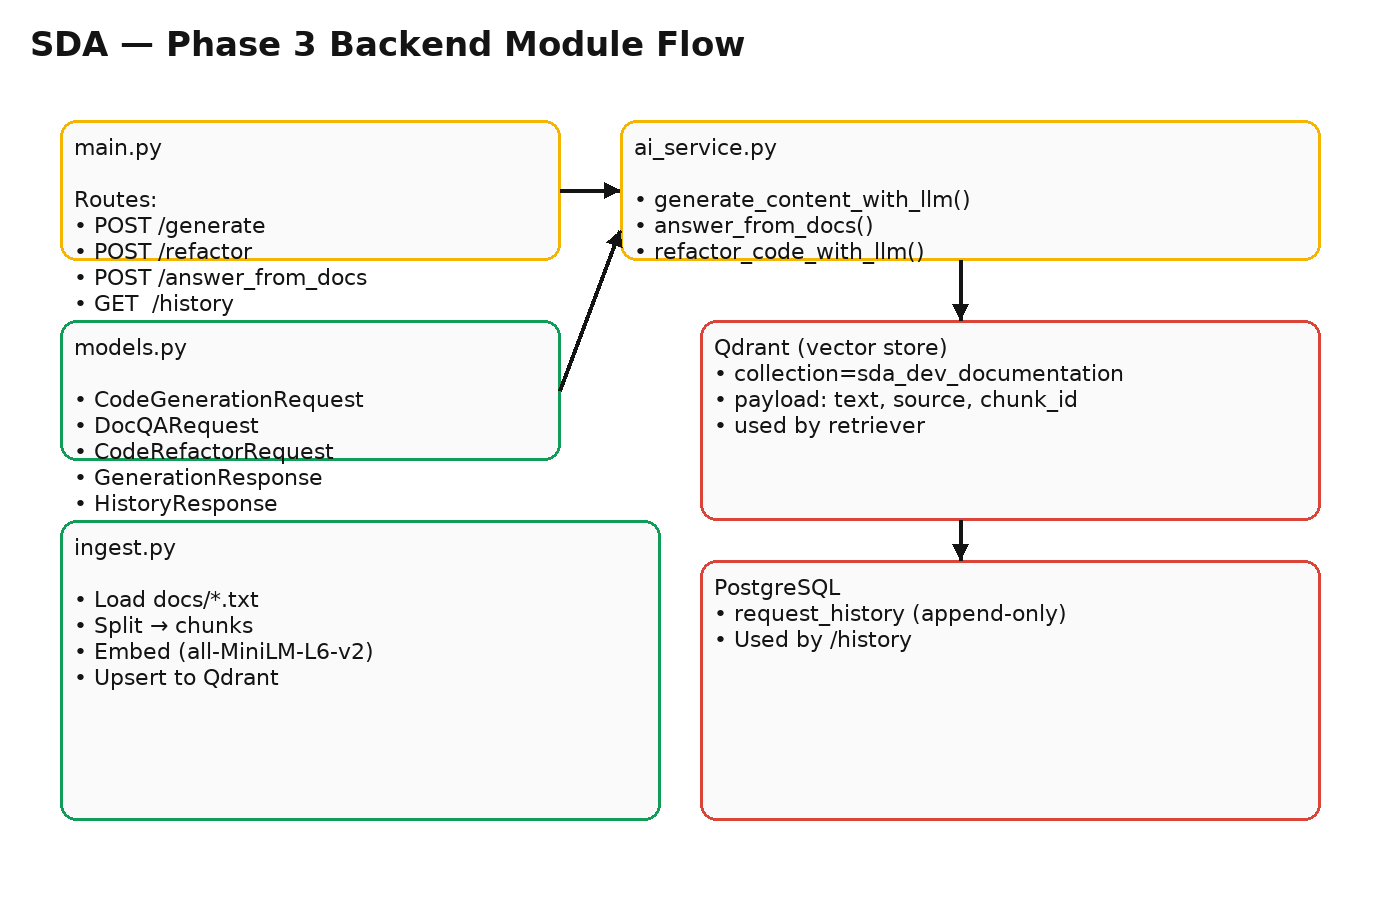
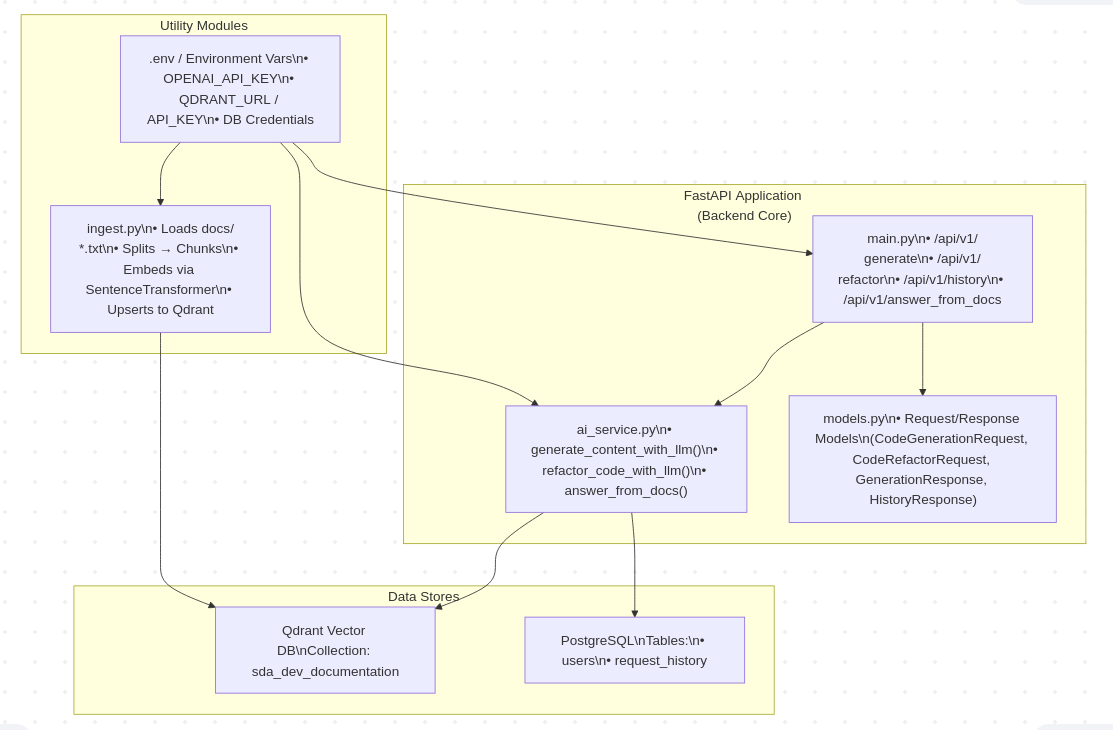
updated diagrams for phase 3

diff --git a/TECHNICAL_DESIGN.md b/TECHNICAL_DESIGN.md
@@ -1,94 +1,105 @@
-# 📘 Technical Design — Smart Developer Assistant (SDA)
+# 📘 Technical Design — Smart Developer Assistant (SDA) — Phase 3
 
-## 1. Introduction
-This document outlines the architecture and implementation of the **Smart Developer Assistant** after completing **Phase 2 (RAG & Docs Q&A Integration)**.  
-The goal is to enable context-aware generation through document retrieval, hybrid ranking, and source traceability.
+Phase 3 introduces two major functional enhancements on top of the Phase 2 RAG architecture:
 
----
-
-## 2. Architectural Overview
-SDA follows a **modular microservice architecture**, separating:
-- FastAPI (backend API)
-- PostgreSQL (structured storage)
-- Qdrant (vector embeddings)
-- React + Redux (frontend)
-
-### 🏗 System Architecture
-![System Architecture](images/Phase2diagram.png)
-
-**Phase 2 Enhancements**
-- Added RAG retrieval flow via Qdrant.  
-- Introduced secure document ingestion (`/upload_docs`).  
-- Added frontend mode toggle (Code ↔ Docs Q&A).
+1. **Code Refactor Feature** – AI-powered code review, optimization, and docstring generation.  
+2. **History Module** – Persistent request logging and retrieval through a MUI DataGrid interface.
 
 ---
 
-## 3. RAG Data Flow
-![RAG Sequence Flow](images/Sequence.png)
+## 1. System Architecture Overview
+![System Architecture](images/Architecture_Phase3.png)
 
-1⃣ Frontend submits prompt → FastAPI (`main.py`)  
-2⃣ Retriever in `ai_service.py` queries Qdrant collection `sda_dev_documentation`  
-3⃣ Context chunks + `SYSTEM_PROMPT` → LLM (OpenAI API)  
-4⃣ LLM generates answer with context  
-5⃣ Sources + scores returned to frontend  
-6⃣ Request/response logged in PostgreSQL
-
----
-
-## 4. Backend Implementation
-![Backend Architecture](images/Backend.png)
-
-### Modules
-| Module | Responsibility |
-|---------|----------------|
-| **main.py** | FastAPI routes, CORS, DB logging, secure upload endpoint |
-| **ai_service.py** | Full LangChain RAG logic + hybrid re-ranking (BM25 + fuzzy) |
-| **models.py** | Pydantic schemas (`DocQARequest`, `GenerationResponse.sources`) |
-| **ingest.py** | CLI + programmatic Qdrant ingestion with embeddings |
-
-**Phase 2 Additions**
-- `answer_from_docs()` endpoint  
-- `upsert_documents()` function for on-demand ingestion  
-- Hybrid retriever with dense + lexical signals  
-- Metadata filters for source/doctype
+**Highlights**
+- React + Redux frontend communicates with FastAPI endpoints:
+  - `/api/v1/generate`
+  - `/api/v1/refactor`
+  - `/api/v1/answer_from_docs`
+  - `/api/v1/history`
+- LangChain orchestrates model reasoning and RAG context retrieval.
+- Qdrant stores document embeddings for semantic search.
+- PostgreSQL holds user and request history data.
 
 ---
 
-## 5. Frontend Design & Interaction
-![Frontend to API Flow](images/Frontend-API.png)
+## 2. Backend Module Flow
+![Backend Flow](images/Backend_Phase3.png)
 
-**Core Components**
-| Component | Purpose |
-|------------|----------|
-| `ModeToggle.tsx` | Switch between Code and Docs Q&A modes |
-| `GenerationArea.tsx` | Main input form for prompt submission |
-| `OutputDisplay.tsx` | Shows AI output and sources |
-| `SourcesList.tsx` | Lists retrieved chunks with scores/snippets |
-| `generationSlice.ts` | Redux state for prompt, mode, filters, and responses |
-
-**Phase 2 Enhancements**
-- Redux thunks for `/generate` and `/answer_from_docs`  
-- Mode-specific parameters (top_k, rerank)  
-- UI updates for real-time source display  
+**Components**
+- **`main.py`** — Defines FastAPI routes and handles request/response lifecycles.  
+- **`ai_service.py`** — Contains:
+  - `generate_content_with_llm()`
+  - `refactor_code_with_llm()`
+  - `answer_from_docs()`  
+- **`models.py`** — Pydantic request/response models.  
+- **`ingest.py`** — Converts docs → chunks → embeddings → Qdrant.  
+- **`.env`** — Holds API keys and database credentials.  
+- **Data Stores**
+  - **Qdrant:** vector collection `sda_dev_documentation`  
+  - **PostgreSQL:** tables `users`, `request_history`
 
 ---
 
-## 6. Database Design
-![Database ER Diagram](images/ER.png)
+## 3. Frontend–API Integration
+![Frontend API Flow](images/Frontend-API_Phase3.png)
 
-| Entity | Description |
-|---------|-------------|
-| `request_history` | Stores all user requests and responses |
-| `users` | (Future) Authentication records |
-| `user_settings` | (Phase 3+) Preferences and model options |
-| `user_snippets` | (Phase 3+) Saved code snippets |
+**Key React Modules**
+- **`generationSlice.ts`** — Manages state (`prompt`, `output`, `mode`, `language`) and thunks  
+  `generateCode()` and `refactorCode()`.
+- **`GenerationArea.tsx`** — Input box + mode toggle (Generate / Refactor).  
+- **`OutputDisplay.tsx`** — Renders output or explanation markdown.  
+- **`HistoryTable.tsx`** — Displays request history; row click → reload prompt/output.
 
-Qdrant collection `"sda_dev_documentation"` stores embeddings with metadata:
+---
 
-```json
-{
-  "text": "document chunk text",
-  "source": "api_service.txt",
-  "chunk_id": 3,
-  "doctype": "txt"
-}
+## 4. Database Entity Model (ER)
+![Database ER](images/ER_Phase3.png)
+
+**Active Tables**
+| Table | Description |
+|--------|--------------|
+| **users** | Stores user accounts and credentials. |
+| **request_history** | Logs every Generate / Refactor request with timestamps and metadata. |
+
+**Future Extensions (Phase 4+)**
+- `user_settings` – personalization and default model preferences.  
+- `user_snippets` – reusable code blocks.
+
+---
+
+## 5. Runtime Sequence Flow
+![Sequence Flow](images/Sequence_Phase3.png)
+
+**Generate Flow**
+1. User → Frontend: prompt input.  
+2. Frontend → FastAPI (`/generate`).  
+3. FastAPI → LangChain → Qdrant → LLM.  
+4. LLM response logged to PostgreSQL `request_history`.  
+5. Result → Frontend → Display.
+
+**Refactor Flow**
+1. User → Frontend: paste code + click Refactor.  
+2. Backend runs `refactor_code_with_llm()`.  
+3. Output (docstring + explanation) logged to DB and displayed.
+
+**History Flow**
+1. User opens History tab.  
+2. Frontend GET `/api/v1/history`.  
+3. Backend SELECT from `request_history`.  
+4. Data Grid renders rows (click to reload).
+
+---
+
+## 6. Phase 3 Summary
+![Phase 3 Summary](images/Phase3diagram.png)
+
+**End-to-End Flow**
+- **Frontend:** React + Redux UI ↔ FastAPI API.  
+- **Backend:** LangChain LLM processing and RAG context retrieval.  
+- **Data Layer:** Qdrant for semantic search + PostgreSQL for structured history.  
+- **New Capabilities:** Refactor endpoint + interactive History DataGrid.
+
+---
+
+### Environment Configuration Notes
+**Frontend `.env`**
